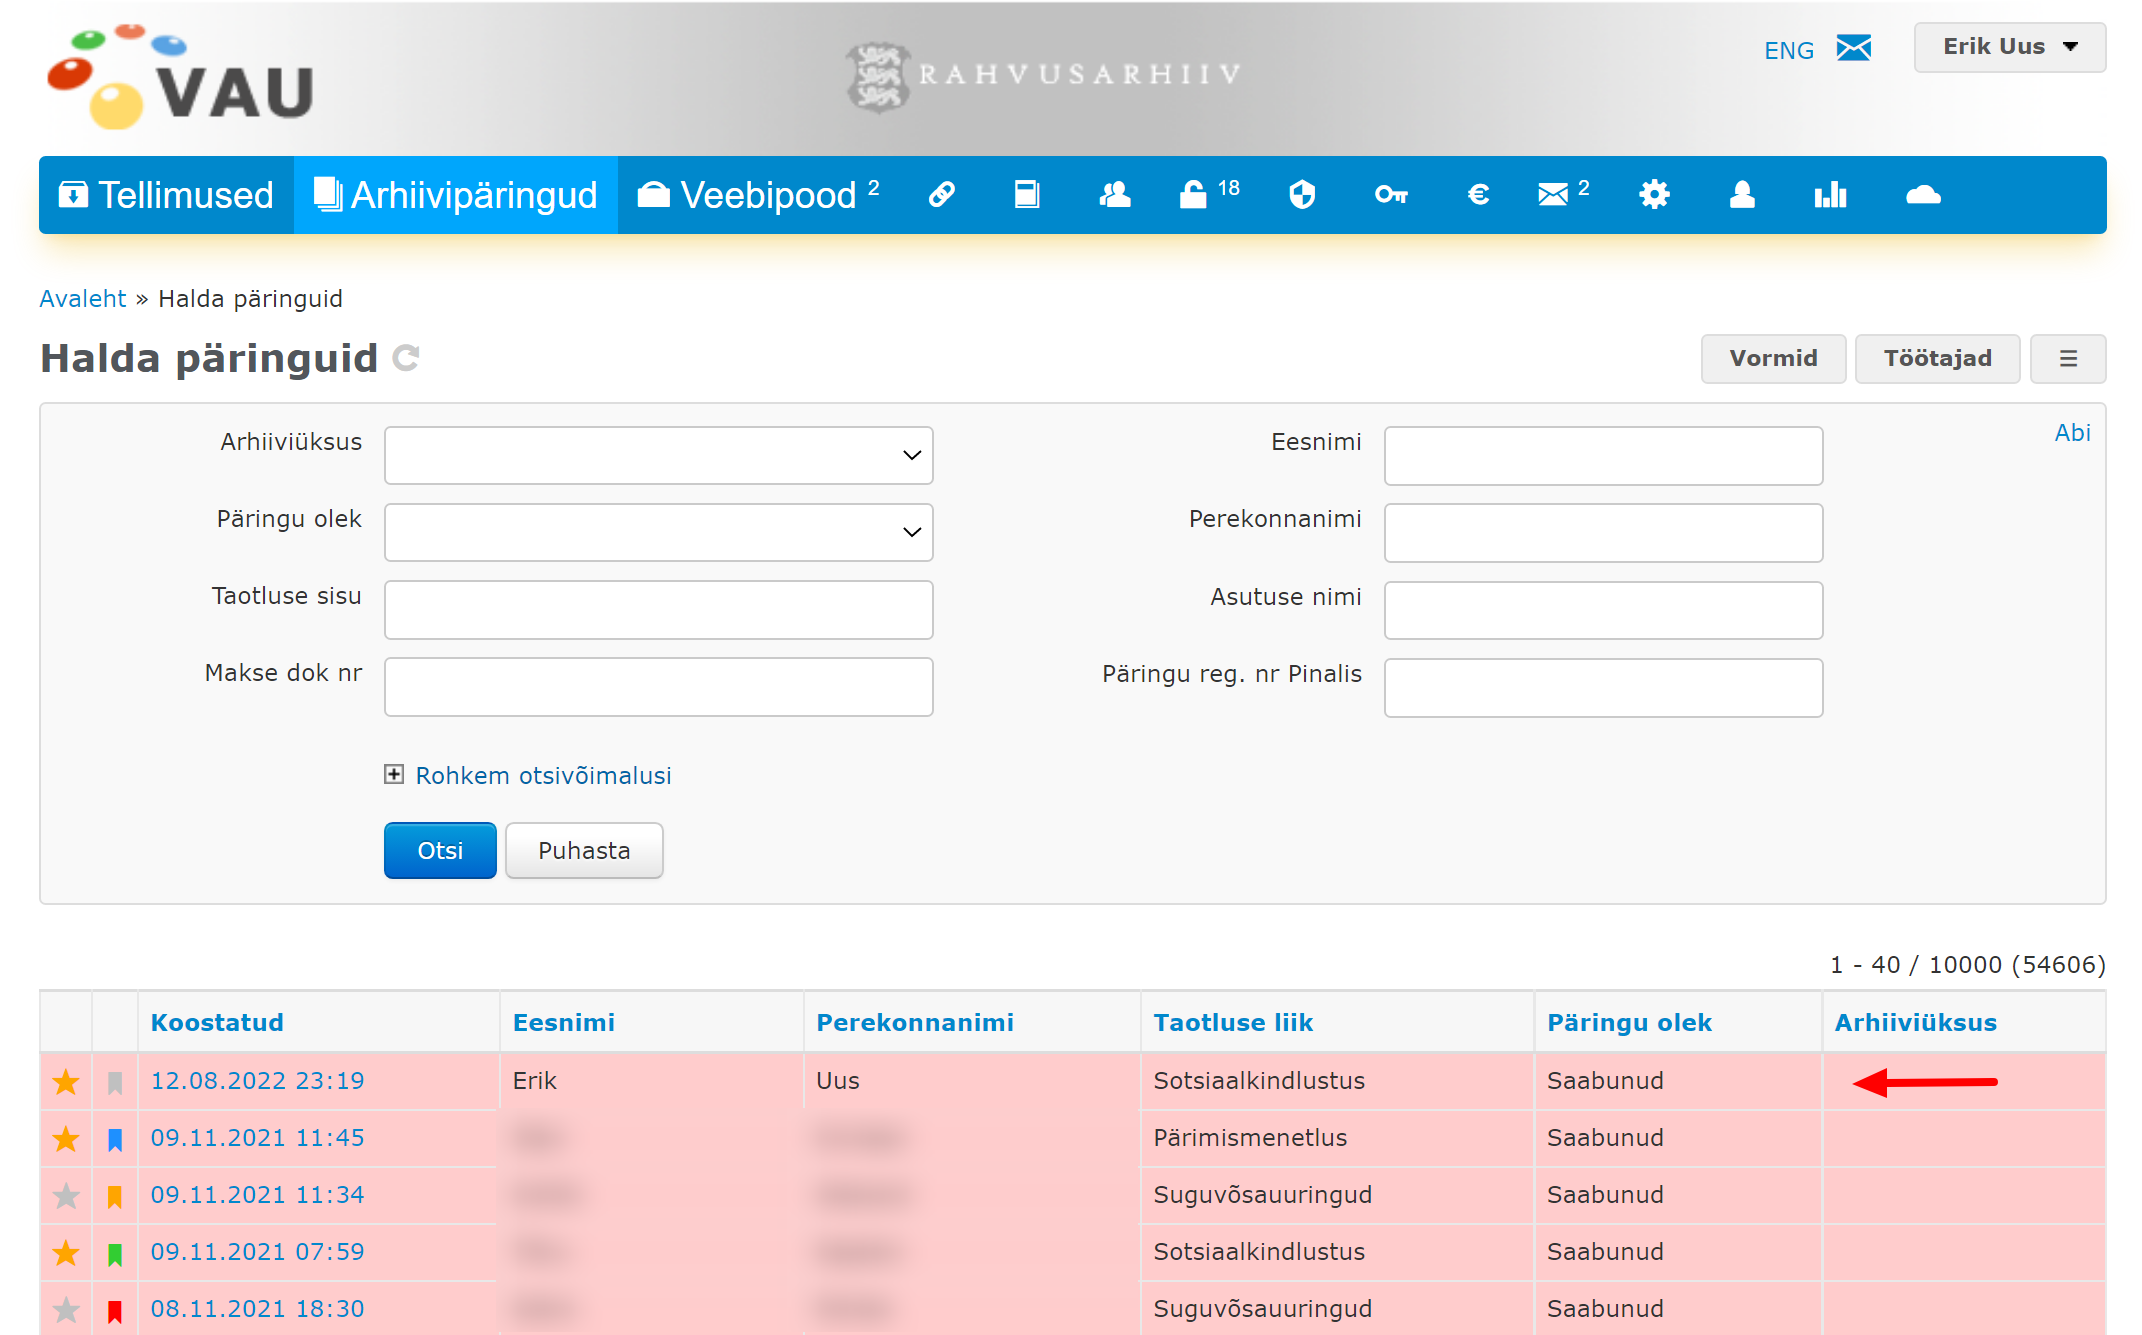
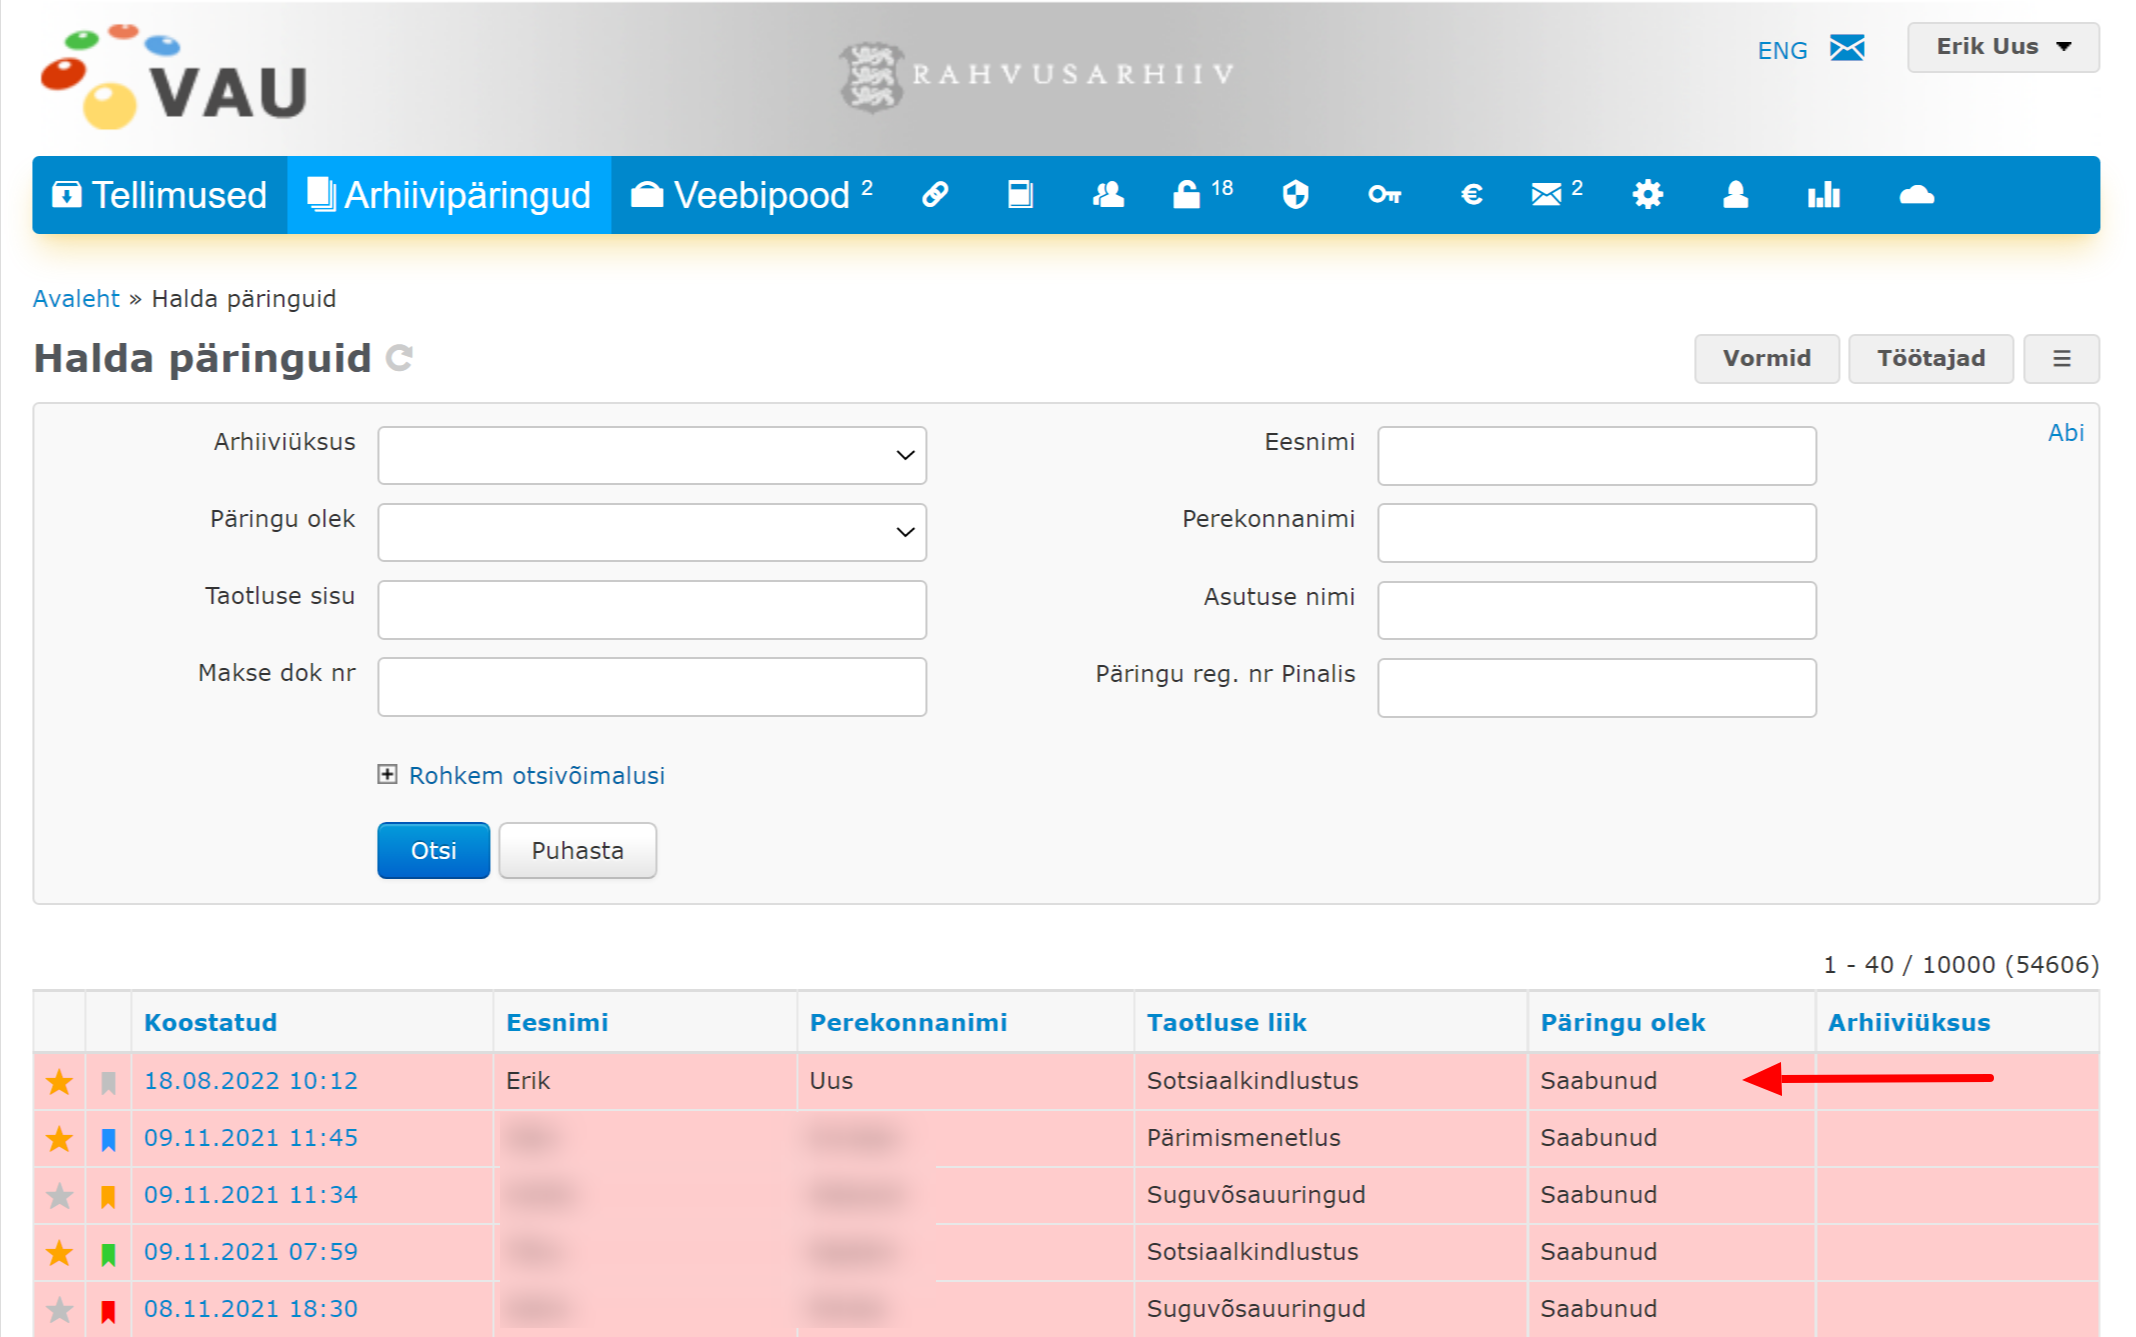
GitBook: [#7] No subject

diff --git a/kiirjuhend.md b/kiirjuhend.md
@@ -5,20 +5,30 @@ description: Konkreetsed näited, kuidas kasutada API põhifunktsioone
 # Kiirjuhend
 
 {% hint style="info" %}
-See kiirjuhend seletab näidete varal API põhilisi funktsioone. Me ei süvene siin detailidesse ega kommenteeri päringute kõiki parameetreid, kuna need on põhjalikult dokumenteeritud järgnevatel lehekülgedel. Siin me loome kiirelt uue osakonna ja lisame sinna uue töötaja. Seejärel loome selle töötaja nimel uue taotluse, lisame sellele faili ja saadame taotluse Rahvusarhiivi. Lõpuks kuvame me taotluse detailvaate ja pärime, mis olekus on taotluse menetlemine. Me vaatame paralleelselt, kuidas need tegevused kajastuvad veebirakenduse kasutajaliideses. Me teeme seda kõike test-keskkonnas.&#x20;
+See kiirjuhend seletab näidete varal API põhilisi funktsioone. Me ei süvene siin detailidesse ega kommenteeri päringute kõiki parameetreid, kuna need on põhjalikult dokumenteeritud järgnevatel lehekülgedel. Siin me loome kiirelt uue üksuse ja lisame sinna uue töötaja. Seejärel loome selle töötaja nimel uue taotluse, lisame sellele faili ja saadame taotluse Rahvusarhiivi. Me pärime, mis olekus on taotluse menetlemine, ja kuvame taotluse detailvaate. Lõpuks pärime me taotluse vastuse. Kõige selle juures vaatame me paralleelselt, kuidas need tegevused kajastuvad veebirakenduse kasutajaliideses.
+{% endhint %}
+
+{% hint style="info" %}
+Siin ja edaspidi, kui räägitakse "veebirakendusest", peetakse silmas Rahvusarhiivi loodud ja Rahvusarhiivi domeenis asuvat rakendust https://www.ra.ee/eteatis/, mida Sotsiaalkindlustusameti töötajad on saanud kasutada alates 2013. aastast, et taotleda Rahvusarhiivilt e-arhiiviteatisi. Sellest rakendusest on pikemalt juttu sissejuhatuses.
 {% endhint %}
 
 ## Juurdepääsu taotlemine
 
 Käesolev API on üks moodul Rahvusarhiivi suuremast API-süsteemist. API kasutaja autentimine ja autoriseerimine toimub kõigi moodulite puhul ühtmoodi.&#x20;
 
-Kõigepealt tuleb luua konto Rahvusarhiivi virtuaalses uurimissaalis: [https://www.ra.ee/vautest/index.php/et/account/create](https://www.ra.ee/vautest/index.php/et/account/create).&#x20;
+Kõigepealt tuleb luua konto Rahvusarhiivi virtuaalses uurimissaalis:
+
+* testkeskkond: [https://www.ra.ee/vautest/index.php/et/account/create](https://www.ra.ee/vautest/index.php/et/account/create)
+* tootekeskkond: [https://www.ra.ee/vau/index.php/et/account/create](https://www.ra.ee/vautest/index.php/et/account/create)
 
 Seejärel tuleb saata API kasutamise taotlus e-kirjaga aadressil admin.vau@ra.ee. Kirjale tuleb lisada registreeritud kasutajanimi ja selgitus, millist API-moodulit ja milleks soovitakse kasutada. Selle kiirjuhendi jaoks registreerin ma kasutaja "erik" ja taotlen ligipääsu e-arhiiviteatise API-moodulile.&#x20;
 
 Kui Rahvusarhiivi administraator rahuldab mu taotluse ja annab kasutajale "erik" vastava õiguse, saan ma oma kasutajanime ja salasõna kasutades teha kõiki e-arhiiviteatise API päringuid.&#x20;
 
-Kui ma unustan oma salasõna, saan teha uue siin: [https://www.ra.ee/vautest/index.php/et/account/forgotPassword](https://www.ra.ee/vautest/index.php/et/account/forgotPassword)
+Kui ma unustan oma salasõna, saan teha uue siin:&#x20;
+
+* testkeskkond: [https://www.ra.ee/vautest/index.php/et/account/forgotPassword](https://www.ra.ee/vautest/index.php/et/account/forgotPassword)
+* tootekeskkond: [https://www.ra.ee/vau/index.php/et/account/forgotPassword](https://www.ra.ee/vautest/index.php/et/account/forgotPassword)
 
 ## Tokeni pärimine
 
@@ -33,7 +43,7 @@ curl --location --request POST '{{apiBaseUrl}}/api/user/verify' \
 ```
 
 {% hint style="info" %}
-See ja kõik järgnevad päringu näited on cUrl formaadis. Muutuja \{{apiBaseUrl\}} on käesoleva kiirjuhendi kontekstist https://www.ra.ee/vautest/index.php/. Tärnide asemel tuleb kasutada salasõna, mis registreeriti Rahvusarhiivi virtuaalses uurimissaalis ja mis on seotud kontoga, millele Rahvusarhiivi administraator andis API kasutamise eriõiguse.
+See ja kõik järgnevad päringu näited on cUrl formaadis. Muutuja \{{apiBaseUrl\}} väärtus sõltub sellest, kas kasutatakse test- või tootekeskkonda. Testkeskkonnas on see https://www.ra.ee/vautest/index.php, tootekeskkonnas https://www.ra.ee/vau/index.php. Kiirjuhendi näidetes kasutame me testkeskkonda. Tärnide asemel tuleb kasutada salasõna, mis registreeriti Rahvusarhiivi virtuaalses uurimissaalis ja mis on seotud kontoga, millele Rahvusarhiivi administraator andis API kasutamise eriõiguse.
 {% endhint %}
 
 Päringu vastuseks on JSON:
@@ -51,9 +61,9 @@ Päringu vastuseks on JSON:
 }
 ```
 
-## Osakonna loomine
+## Üksuse loomine
 
-Kasutades eelnevas vastuses saadud _token_it, käivitame päringu:
+Kasutades eelnevas vastuses saadud __ tokenit, käivitame päringu:
 
 ```shell
 curl --location --request POST '{{apiBaseUrl}}/api/ska/department/create?token=71e0d98f1ab52c225d655359190b6844' \
@@ -239,22 +249,158 @@ curl --location --request GET '{{apiBaseUrl}}/api/ska/application/status?token=7
 Päringu vastuseks on JSON:
 
 ```json
-// Some code
+{
+    "responseStatus": "ok",
+    "applicationStatus": {
+        "code": "SUBMITTED",
+        "text": "Saabunud",
+        "htmlMessage": null
+    }
+}
 ```
 
 ## Taotluse vaatamine
 
 Kasutades eelnevatest vastustest saadud andmeid (token, applicationId), käivitame päringu:
 
-```
-// Some code
+```shell
+curl --location --request GET '{{apiBaseUrl}}/api/ska/application/view?token=71e0d98f1ab52c225d655359190b6844&id=16610'
 ```
 
 Päringu vastuseks on JSON:
 
 ```json
-// Some code
+{
+    "responseStatus": "ok",
+    "applicationDetailView": {
+        "Taotluse esitaja andmed": {
+            "Eesnimi": "Erik",
+            "Perekonnanimi": "Uus",
+            "Isikukood": "37307302715",
+            "Sünnikuupäev": "30.07.1973",
+            "Aadress": "Tammsaare 8-25",
+            "Postiindeks": "51006",
+            "Telefon või mobiiltelefon": "+37253225388",
+            "E-posti aadress": "erik.uus@gmail.com",
+            "Nimemuutused ja erinevad nimekujud õppimise/töötamise ajal": "Uks, Uss",
+            "Teatise tellijaks ja riigilõivu tasujaks ei ole isik, vaid": "Test osakond"
+        },
+        "Taotluse sisu": {
+            "Õppimine": {
+                "Õppeasutused": [
+                    {
+                        "Õppeasutuse nimetus": "Nõo Keskkool",
+                        "Õppimise aeg (kuupäevaliselt)": "1980 - 1991",
+                        "Eriala": null
+                    },
+                    {
+                        "Õppeasutuse nimetus": "Tartu Ülikool",
+                        "Õppimise aeg (kuupäevaliselt)": "1991 - 1995",
+                        "Eriala": "usuteadus"
+                    }
+                ],
+                "Märkused, täiendused": "Märkused, täiendused"
+            },
+            "Töötamine": {
+                "Asutused": [
+                    {
+                        "Asutuse nimetus": "Rahvusarhiiv",
+                        "Töötamise aeg (kuupäevaliselt)": "2006 - 2022",
+                        "Eriala": "programmeerija"
+                    },
+                    {
+                        "Asutuse nimetus": "Babahh OÜ",
+                        "Töötamise aeg (kuupäevaliselt)": "2014 - 2018",
+                        "Eriala": "programmeerija"
+                    }
+                ],
+                "Õigus sooduspensionile, vajalike tingimuste kirjeldus": "Õigus sooduspensionile, vajalike tingimuste kirjeldus",
+                "Märkused, täiendused": "Märkused, täiendused"
+            },
+            "Talus töötamine": {
+                "Maakond, vald, talu nimi, aeg": "Maakond, vald, talu nimi, aeg"
+            },
+            "Sõjaväeteenistus": {
+                "Kirjeldus; Eesti Kaitseväes teenimise puhul märkida väeosa ja teenimise aeg, Saksa sõjaväes teenimise puhul kõik teadaolevad andmed": "Kirjeldus; Eesti Kaitseväes teenimise puhul märkida väeosa ja teenimise aeg, Saksa sõjaväes teenimise puhul kõik teadaolevad andmed"
+            },
+            "Viibimine nõukogude tagalas": {
+                "Kirjeldus; kellega koos tagalasse saadeti (andmed vanemate kohta) ja märkida kõik teadaolevad andmed": "Kirjeldus; kellega koos tagalasse saadeti (andmed vanemate kohta) ja märkida kõik teadaolevad andmed"
+            },
+            "Vangilaagris ja asumisel viibimine": {
+                "Kirjeldus; kellega koos laagrisse/asumisele saadeti (andmed vanemate kohta), millal ja kelle poolt karistatud, karistuse kandmise aeg ja koht, vabanemise aeg": "Kirjeldus; kellega koos laagrisse/asumisele saadeti (andmed vanemate kohta), millal ja kelle poolt karistatud, karistuse kandmise aeg ja koht, vabanemise aeg"
+            },
+            "Töölaagris, koonduslaagris või sõjavangilaagris viibimine": {
+                "Laagri nimetus, kinnipidamise ja vabastamise aeg": "Laagri nimetus, kinnipidamise ja vabastamise aeg"
+            },
+            "II maailmasõja ajal Eestisse toomine": {
+                "Kirjeldus; kellega koos toodi (andmed vanemate kohta), toomise aeg ja koht, laagrite nimed ja kinnipidamisaeg, kuhu suunati elama ja tööle": "Kirjeldus; kellega koos toodi (andmed vanemate kohta), toomise aeg ja koht, laagrite nimed ja kinnipidamisaeg, kuhu suunati elama ja tööle"
+            },
+            "II maailmasõja ajal Saksamaale saatmine": {
+                "Kirjeldus; kellega koos saadeti (andmed vanemate kohta), kust ja millal saadeti, laagrite nimed, töökohad Saksamaal, Eestisse naasmise aeg ja koht": "Kirjeldus; kellega koos saadeti (andmed vanemate kohta), kust ja millal saadeti, laagrite nimed, töökohad Saksamaal, Eestisse naasmise aeg ja koht"
+            },
+            "Muud märkused, täiendused": "Märkused, täiendused"
+        },
+        "Taotlusega seotud failid": [
+            {
+                "url": "https://www.ra.ee/apps/eteatistest/index.php/file/download?code=yD0FmubzIzi8BAj8",
+                "filename": "test.jpg",
+                "filesize": "11 KB",
+                "creator": "Erik Uus",
+                "modified": "17.08.2022 13:12"
+            }
+        ],
+        "Taotluse esitaja soovid ja eelistused": {
+            "Soovin arhiivilt teadet riigilõivu tasumise kohta": "E-postiga",
+            "Soovin koopiat arhiiviteatisest": "E-postiga"
+        },
+        "Üksus, kuhu arhiiviteatis edastatakse": {
+            "Nimi": "Test osakond",
+            "Aadress": "Tammsaare 8-25, Tartu",
+            "E-post": "erik.uus@ra.ee",
+            "Telefon": "+372 5322 5388"
+        },
+        "Vormi täitnud töötaja andmed": {
+            "Eesnimi": "Erik",
+            "Perekonnanimi": "Uus",
+            "Telefon": "+372 5322 5388"
+        },
+        "Taotluse andmed": {
+            "Koostatud": "17.08.2022 13:04",
+            "Saadetud": "18.08.2022 10:12"
+        }
+    }
+}
 ```
 
-Veebirakenduses näeb taotlus välja nii:
+Veebirakenduses näeb saadetud taotlus välja nii:
 
+![](<.gitbook/assets/E-arhiiviteatis-Vaata-taotlust (2) (1).png>)
+
+## Vastuse pärimine
+
+Kasutades eelnevatest vastustest saadud andmeid (token, applicationId), käivitame päringu:
+
+```shell
+curl --location --request GET '{{apiBaseUrl}}/api/ska/application/result?token=71e0d98f1ab52c225d655359190b6844&id=16610'
+```
+
+Päringu vastuseks on JSON:
+
+```json
+{
+    "responseStatus": "ok",
+    "resultFiles": [
+        {
+            "url": "https://www.ra.ee/vautest/upload/enquiry/2022/08/00c95808-20a2-4986-5a7f-066cb87c6bb1/erik-uus-eteatis.asice",
+            "filename": "erik-uus-eteatis.asice",
+            "filesize": "199 KB",
+            "creator": "Erik Uus",
+            "modified": "18.08.2022 11:42"
+        }
+    ]
+}
+```
+
+{% hint style="info" %}
+Sellise vastuse eelduseks on, et Rahvusarhiiv on taotluse lõpuni menetlenud: taotleja on tasunud riigilõivu ja Rahvusarhiiv koostanud e-arhiiviteatise.&#x20;
+{% endhint %}
